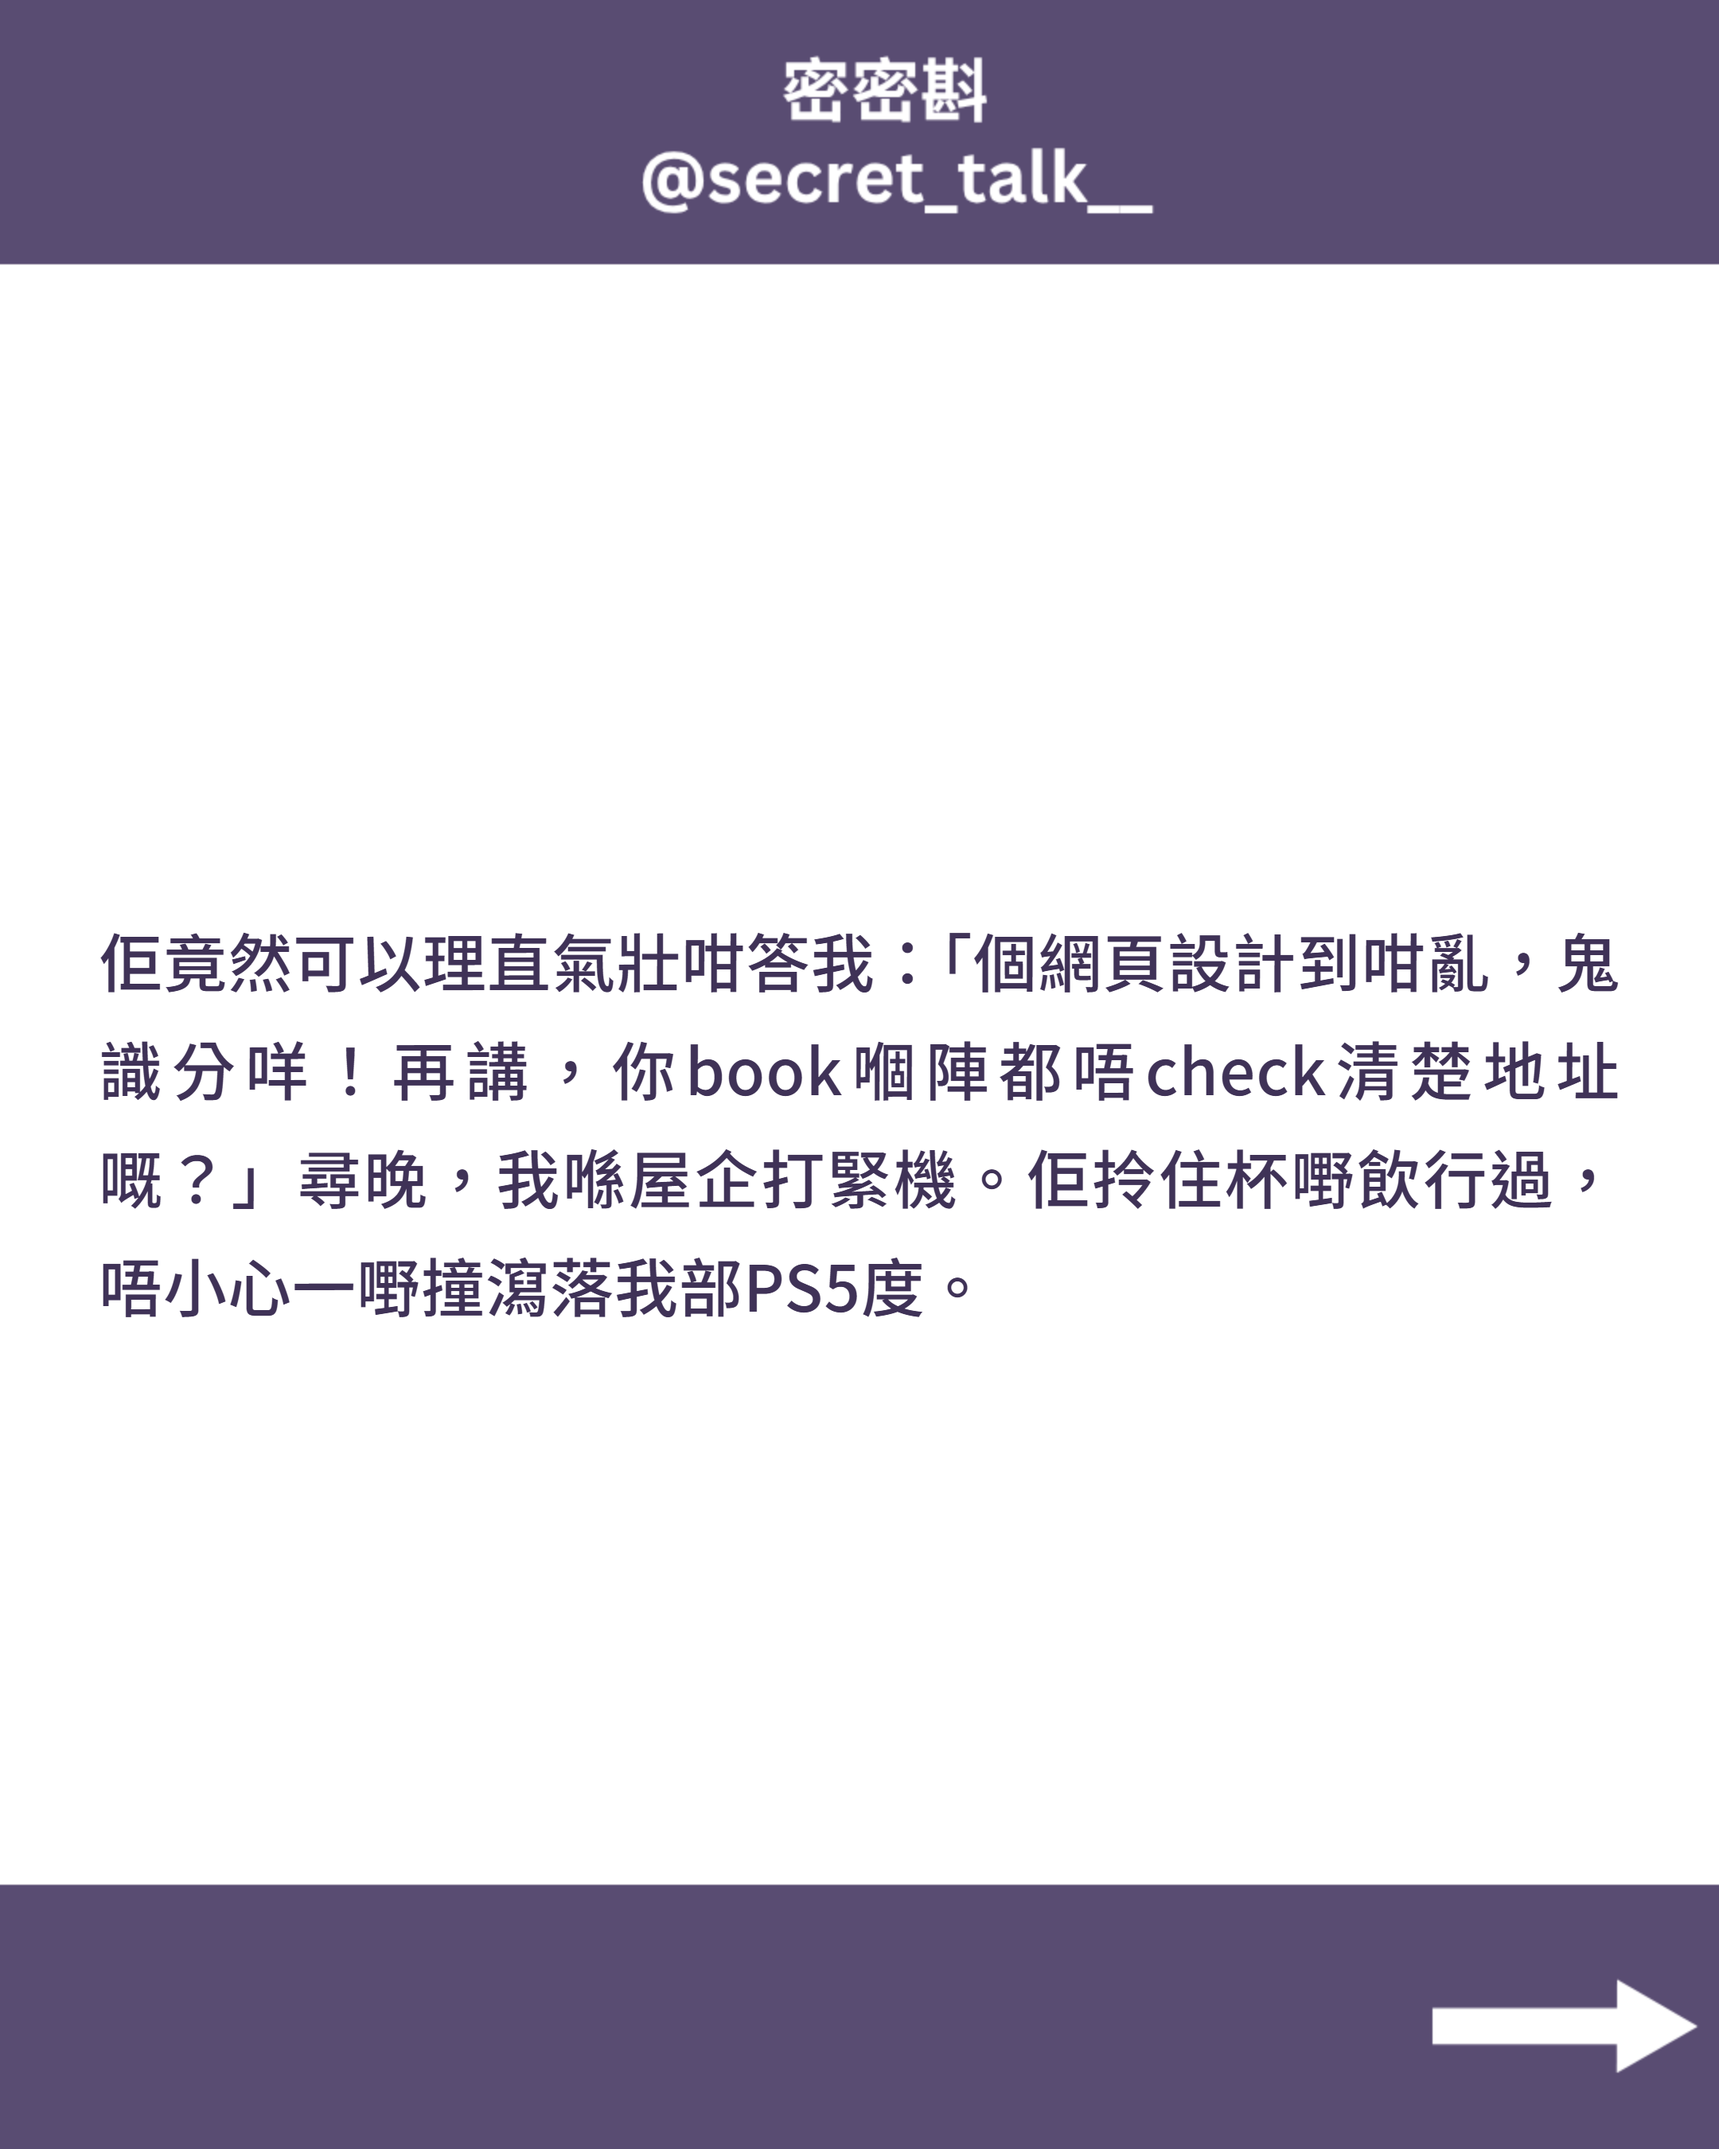
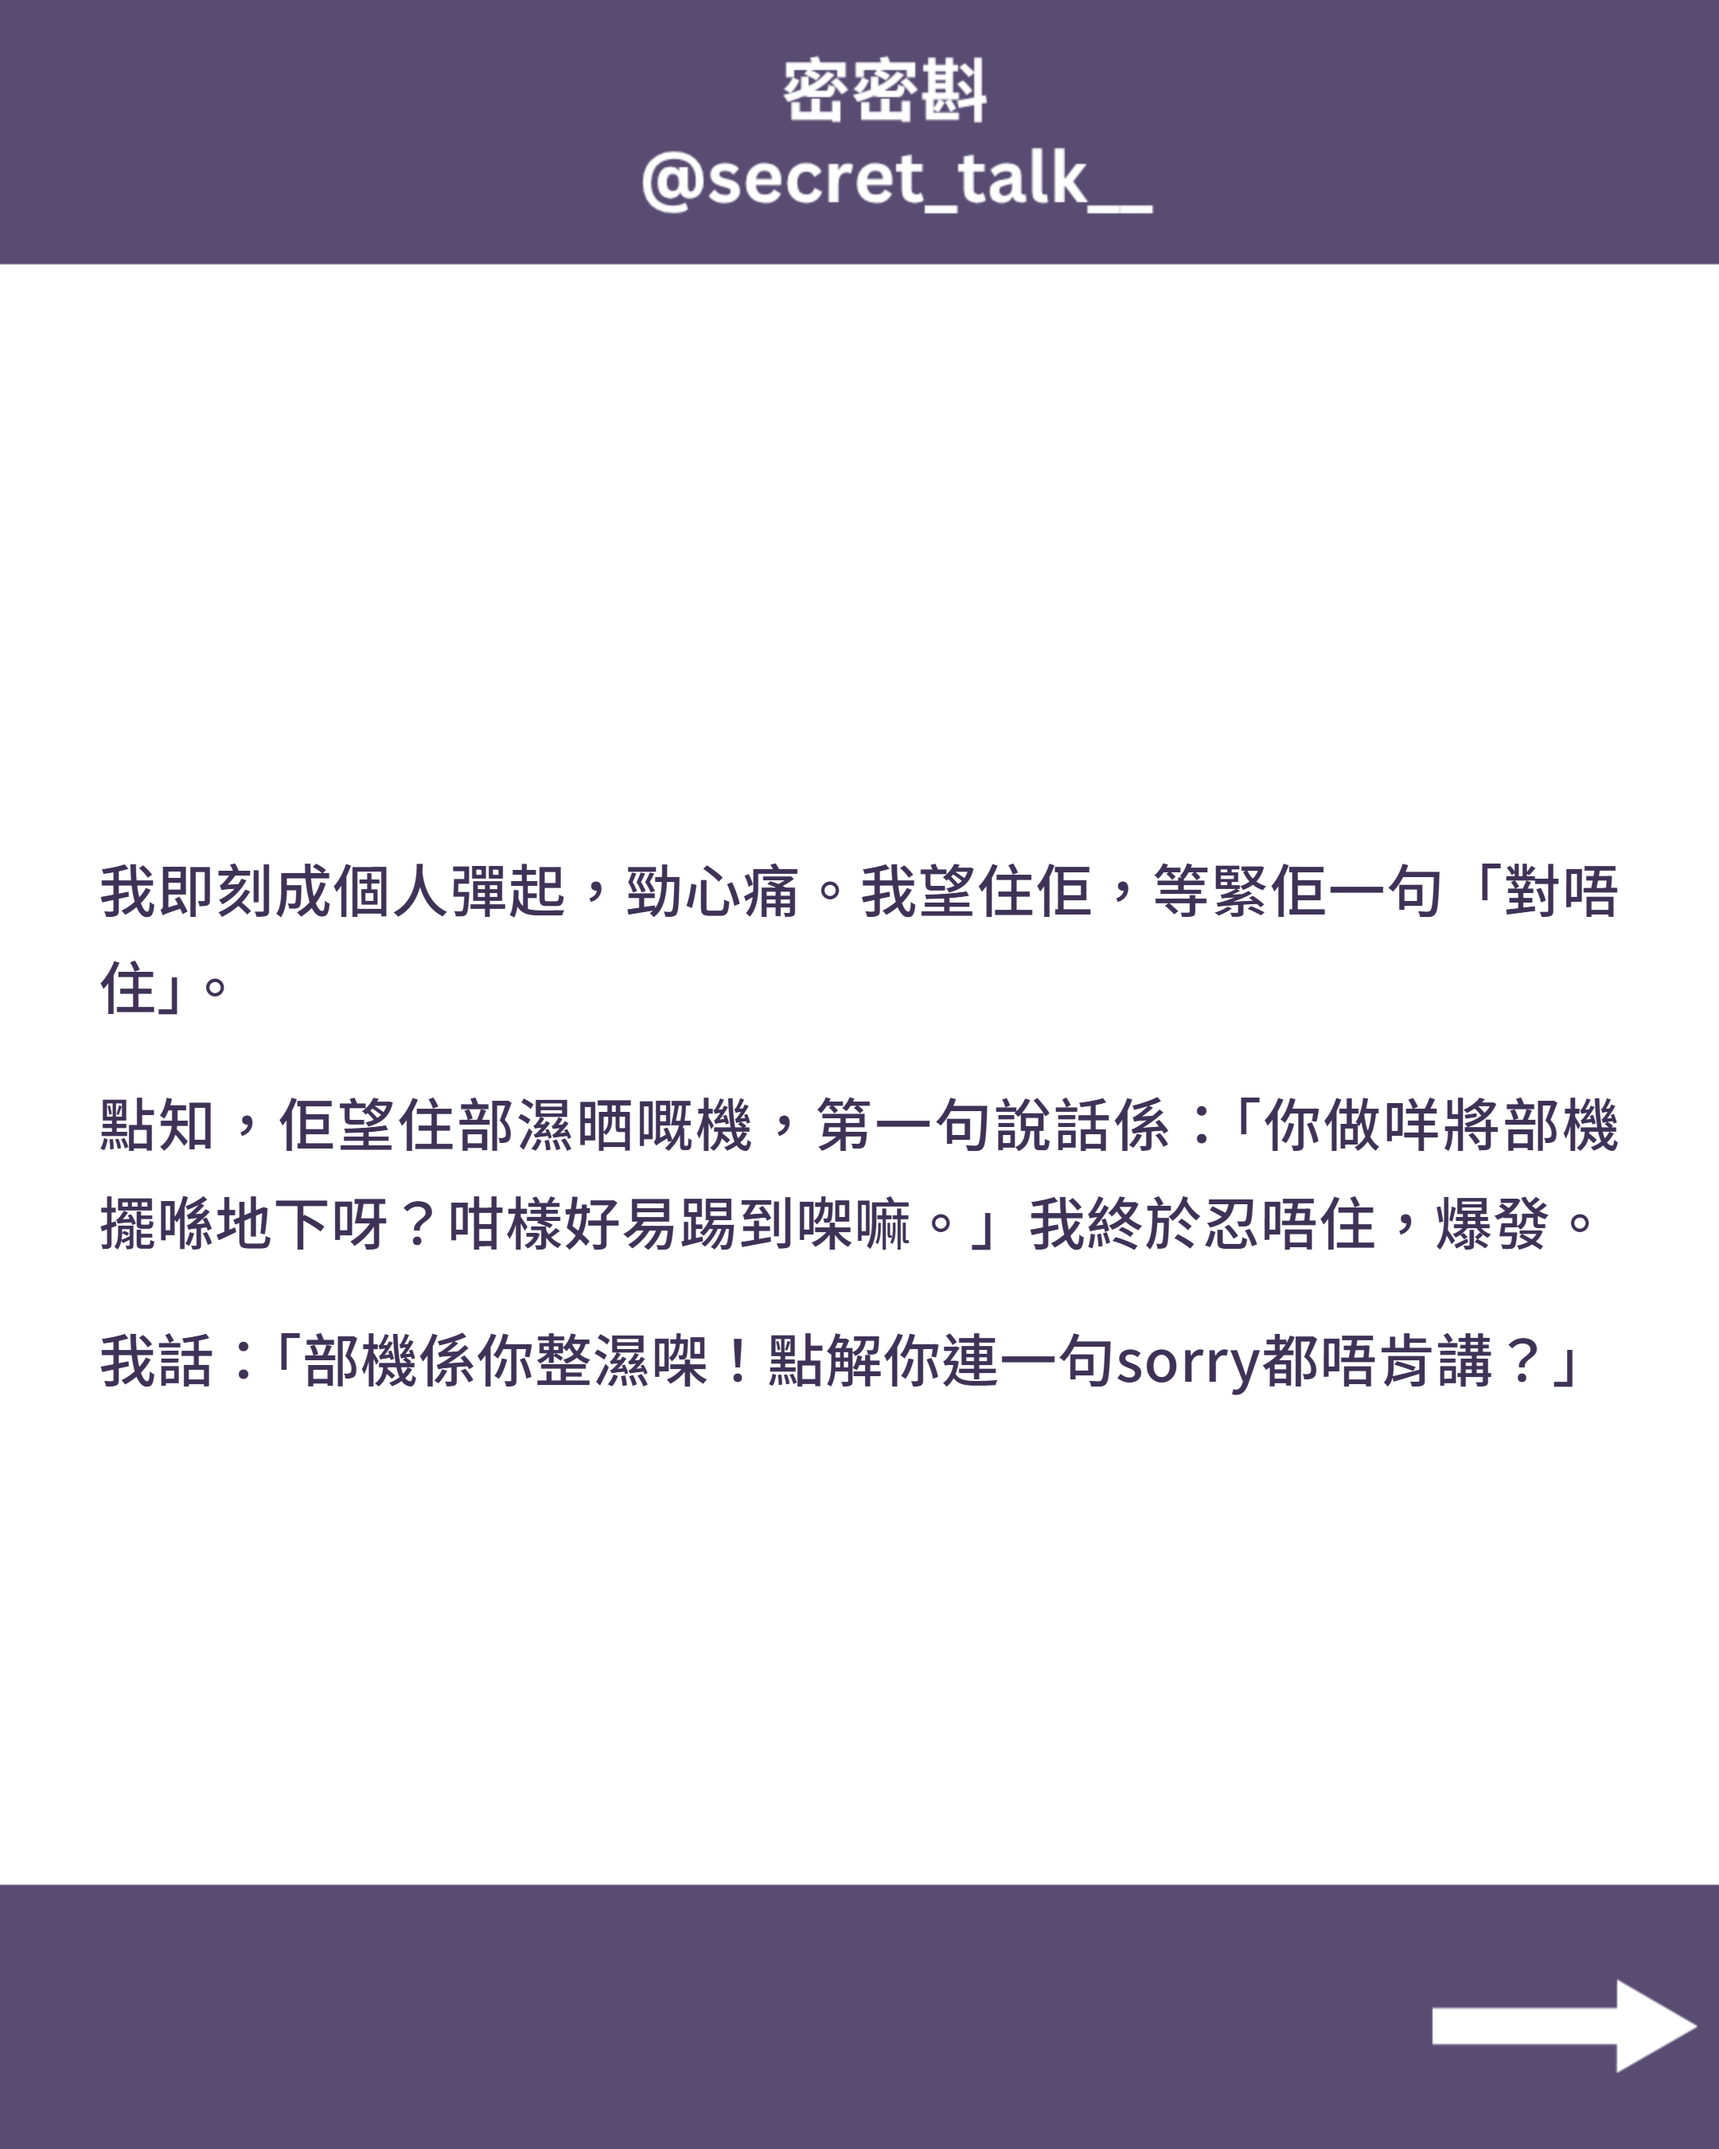
Optimize story generation to exactly 9 images - Step by Step Fix
ISSUES FIXED:
1.  Story was generating 12 images (too many for Telegram single album)
2.  Telegram 10-image limit required complex batching
3.  Content was spread too thin across 9 content pages

STEP-BY-STEP SOLUTIONS:

 STEP 1: Reduced Total Images (12  9)
- target_max_parts: 9  6 content pages
- Total structure: Title + 6 Content + Conclusion + End = 9 images
- Result: Perfect fit for Telegram single album (under 10 limit)

 STEP 2: Increased Content Per Page
- optimal_chars_per_page: 80  100 chars (+25% increase)
- max_chars_per_page: 120  140 chars (+17% increase)
- min_chars_per_page: 50  70 chars (+40% increase)
- Result: More substantial content per page, better story flow

 STEP 3: Adaptive Font Sizing for More Content
- 120+ chars: 32px (very long content)
- 100+ chars: 36px (long content)
- 80+ chars: 40px (medium content)
- 60+ chars: 44px (shorter content)
- Default: 38px (optimized for 6-page layout)
- Result: Optimal readability with more text per page

 STEP 4: Simplified Telegram Sending
- Removed batching complexity (send_telegram_photos_batched)
- Back to simple send_telegram_photos (single album)
- Result: Clean, fast, single-album delivery

 STEP 5: Optimized Content Distribution
- 7 pages optimized to 6 pages automatically
- Better content balance across fewer pages
- Complete story preserved without truncation

RESULTS:
 Exactly 9 images generated (Title + 6 Content + Conclusion + End)
 Single Telegram album (no batching needed)
[…]

Changed region(s): [[0.062, 0.4044, 0.9616, 0.6533], [0.6204, 0.6222, 0.8995, 0.6533]]

diff --git a/ming/telegram_sender.py b/ming/telegram_sender.py
@@ -93,3 +93,69 @@ async def send_telegram_photos(telegram_bot, telegram_chat_id, photo_paths: list
         print("🔍 詳細錯誤資訊:")
         print(traceback.format_exc())
         return False
+
+async def send_telegram_photos_batched(telegram_bot, telegram_chat_id, photo_paths: list, caption: str = None):
+    """Send multiple photos to Telegram, splitting into batches if needed (max 10 per album)."""
+    try:
+        # Check if all files exist
+        for path in photo_paths:
+            if not os.path.exists(path):
+                print(f"❌ File not found: {path}")
+                return False
+
+        print(f"📤 開始上傳 {len(photo_paths)} 張圖片到 Telegram...")
+        
+        # Check file sizes first
+        total_size = check_file_sizes(photo_paths)
+        
+        # Telegram album limit is 10 photos
+        MAX_PHOTOS_PER_ALBUM = 10
+        
+        if len(photo_paths) <= MAX_PHOTOS_PER_ALBUM:
+            # Send all photos in one album using existing function
+            return await send_telegram_photos(telegram_bot, telegram_chat_id, photo_paths, caption)
+        else:
+            # Split into multiple albums
+            print(f"📊 圖片數量 ({len(photo_paths)}) 超過 Telegram 限制 ({MAX_PHOTOS_PER_ALBUM})，將分批發送...")
+            
+            success_count = 0
+            total_batches = (len(photo_paths) + MAX_PHOTOS_PER_ALBUM - 1) // MAX_PHOTOS_PER_ALBUM
+            
+            for i in range(0, len(photo_paths), MAX_PHOTOS_PER_ALBUM):
+                batch_photos = photo_paths[i:i + MAX_PHOTOS_PER_ALBUM]
+                batch_num = (i // MAX_PHOTOS_PER_ALBUM) + 1
+                
+                print(f"\n📦 發送第 {batch_num}/{total_batches} 批 ({len(batch_photos)} 張圖片)...")
+                
+                # Add batch info to caption for first batch only
+                batch_caption = None
+                if i == 0 and caption:
+                    batch_caption = f"{caption}\n\n📊 總共 {len(photo_paths)} 張圖片，分 {total_batches} 批發送"
+                elif i == 0:
+                    batch_caption = f"📊 總共 {len(photo_paths)} 張圖片，分 {total_batches} 批發送"
+                
+                success = await send_telegram_photos(telegram_bot, telegram_chat_id, batch_photos, batch_caption)
+                if success:
+                    success_count += 1
+                    print(f"✅ 第 {batch_num} 批發送成功")
+                else:
+                    print(f"❌ 第 {batch_num} 批發送失敗")
+                
+                # Add small delay between batches to avoid rate limiting
+                if i + MAX_PHOTOS_PER_ALBUM < len(photo_paths):
+                    import asyncio
+                    await asyncio.sleep(2)
+            
+            if success_count == total_batches:
+                print(f"🎉 所有 {total_batches} 批圖片都發送成功！")
+                return True
+            else:
+                print(f"⚠ 只有 {success_count}/{total_batches} 批發送成功")
+                return False
+            
+    except Exception as e:
+        print(f"❌ Telegram 分批發送失敗: {e}")
+        print("🔍 詳細錯誤資訊:")
+        import traceback
+        traceback.print_exc()
+        return False

diff --git a/ming/relationship_template_generator.py b/ming/relationship_template_generator.py
@@ -17,16 +17,16 @@ def generate_exact_custom_template(content, template_type="content", perspective
     # Wrap in paragraph tags
     exact_content = f'<p>{exact_content}</p>'
     
-    # Adjust font size based on content length for better fit with increased content per page
+    # Adjust font size based on content length for 6-page optimization
     content_length = len(content)
-    if template_type == "content" and content_length > 100:
-        font_size = "36px"  # Smaller font for very long content (100+ chars)
+    if template_type == "content" and content_length > 120:
+        font_size = "32px"  # Smaller font for very long content (120+ chars)
+    elif template_type == "content" and content_length > 100:
+        font_size = "36px"  # Small font for long content (100+ chars)
     elif template_type == "content" and content_length > 80:
-        font_size = "40px"  # Medium font for long content (80+ chars)
+        font_size = "40px"  # Medium font for medium content (80+ chars)
     elif template_type == "content" and content_length > 60:
-        font_size = "44px"  # Larger font for medium content (60+ chars)
-    elif template_type == "content" and content_length > 40:
-        font_size = "48px"  # Large font for shorter content (40+ chars)
+        font_size = "44px"  # Larger font for shorter content (60+ chars)
     
     # Choose styling based on template type with proper sizing for mobile display
     if template_type == "title":
@@ -51,7 +51,7 @@ def generate_exact_custom_template(content, template_type="content", perspective
     else:  # content pages
         bg_image = "content_page1_girl.png" if perspective == "female" else "content_page1_boy.png"
         if 'font_size' not in locals():  # Only set if not already set above
-            font_size = "42px"  # Adjusted default font size for content pages with more text
+            font_size = "38px"  # Adjusted default font size for 6-page content with more text
         font_weight = "500"
         color = "#3f3257"
         content_class = "story-content"

diff --git a/ming/custom_story_reader.py b/ming/custom_story_reader.py
@@ -212,10 +212,10 @@ def split_content_for_images(content, target_parts=3):
     paragraph_lengths = [len(p) for p in paragraphs]
     total_chars = sum(paragraph_lengths)
     
-    # 設定每頁最佳字數範圍（增加字數以避免過度分割）
-    optimal_chars_per_page = 80   # 增加到80字，避免句子被切斷
-    max_chars_per_page = 120      # 增加到120字，確保完整句子
-    min_chars_per_page = 50       # 增加到50字，確保內容充實
+    # 設定每頁最佳字數範圍（為6頁內容優化）
+    optimal_chars_per_page = 100  # 增加到100字，適合6頁分配
+    max_chars_per_page = 140      # 增加到140字，確保完整句子
+    min_chars_per_page = 70       # 增加到70字，確保內容充實
     
     parts = []
     current_part = []
@@ -303,8 +303,8 @@ def split_content_for_images(content, target_parts=3):
     # 移除空白部分
     parts = [part for part in parts if part.strip()]
     
-    # 控制總圖片數量少於12張（包括標題、結論、結尾圖片）
-    target_max_parts = 9  # 目標最多9個內容頁（加上標題、結論、結尾頁，總共12張圖片）
+    # 控制總圖片數量為9張（包括標題、結論、結尾圖片）
+    target_max_parts = 6  # 目標最多6個內容頁（加上標題、結論、結尾頁，總共9張圖片）
     
     # 如果分割後部分太多，智能合併
     while len(parts) > target_max_parts:
